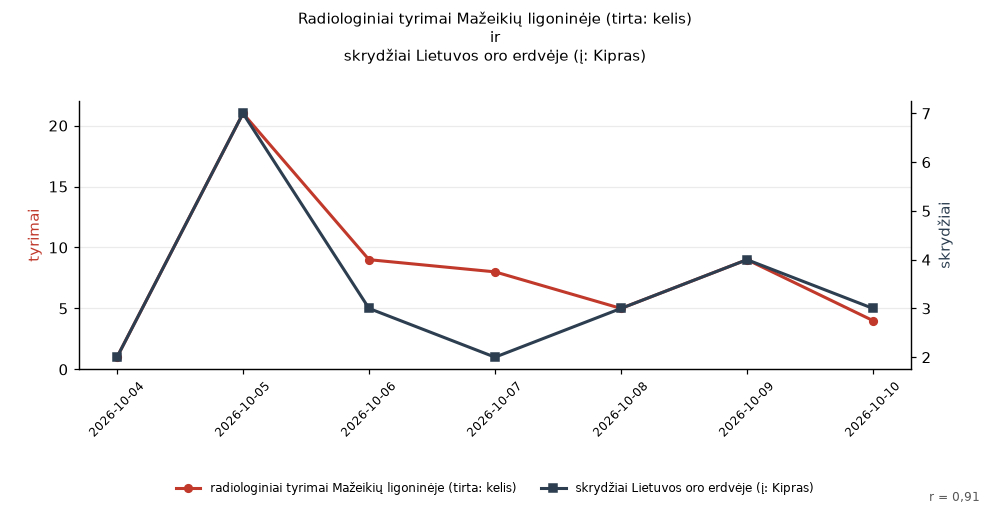
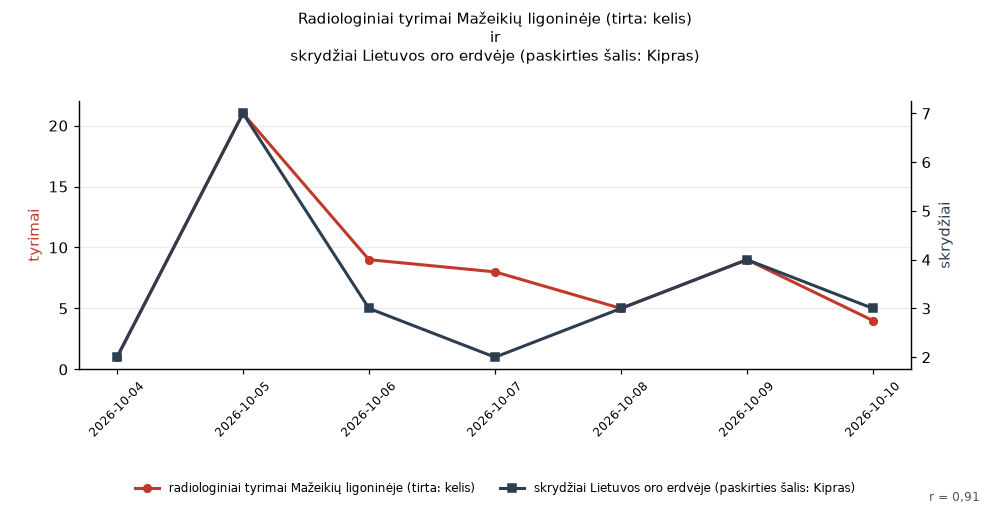
Post: country labels read as destination/departure country

Changed region(s): [[0.1212, 0.9486, 0.8788, 0.9783], [0.303, 0.0889, 0.697, 0.1186]]

diff --git a/post/2026-10-23-9c3c91f4/index.html b/post/2026-10-23-9c3c91f4/index.html
@@ -1,10 +1,10 @@
 <!doctype html>
 <html lang="lt"><head><meta charset="utf-8">
 <meta name="viewport" content="width=device-width, initial-scale=1">
-<title>2026 m. lyg tyčia sutapo: radiologiniai tyrimai Mažeikių ligoninėje (tirta: kelis) ir skrydžiai Lietuvos oro erdvėje (į: Kipras) · Lyg tyčia</title>
+<title>2026 m. lyg tyčia sutapo: radiologiniai tyrimai Mažeikių ligoninėje (tirta: kelis) ir skrydžiai Lietuvos oro erdvėje (paskirties šalis: Kipras) · Lyg tyčia</title>
 <meta property="og:type" content="article">
 <meta property="og:site_name" content="Lyg tyčia">
-<meta property="og:title" content="2026 m. lyg tyčia sutapo: radiologiniai tyrimai Mažeikių ligoninėje (tirta: kelis) ir skrydžiai Lietuvos oro erdvėje (į: Kipras)">
+<meta property="og:title" content="2026 m. lyg tyčia sutapo: radiologiniai tyrimai Mažeikių ligoninėje (tirta: kelis) ir skrydžiai Lietuvos oro erdvėje (paskirties šalis: Kipras)">
 <meta property="og:description" content="Radiologiniai tyrimai Mažeikių ligoninėje (tirta: kelis) ir skrydžiai Lietuvos oro erdvėje (į: Kipras) kyla ir krenta kartu: r = 0,90 per 7 d. (2026-10-04 – 2026-10-10).">
 <meta property="og:url" content="https://1gnas3000.github.io/lygtycia/post/2026-10-23-9c3c91f4/">
 <meta property="og:image" content="https://1gnas3000.github.io/lygtycia/post/2026-10-23-9c3c91f4/chart.png">
@@ -26,18 +26,18 @@
 <article><p class="meta">2026-10-23
  · panašios kreivės · dienos duomenys
  · r = 0,91</p>
-<h2>2026 m. lyg tyčia sutapo: radiologiniai tyrimai Mažeikių ligoninėje (tirta: kelis) ir skrydžiai Lietuvos oro erdvėje (į: Kipras)</h2>
+<h2>2026 m. lyg tyčia sutapo: radiologiniai tyrimai Mažeikių ligoninėje (tirta: kelis) ir skrydžiai Lietuvos oro erdvėje (paskirties šalis: Kipras)</h2>
 
 <p><a href="../../post/2026-10-23-9c3c91f4/"><img src="../../post/2026-10-23-9c3c91f4/chart.png"
  alt="grafikas" loading="lazy"></a></p>
 <p class="sources">Duomenų šaltiniai:
  <a href="https://get.data.gov.lt/datasets/gov/radiologija/RegionineMazeikiuLigonine" rel="noopener">Radiologiniai tyrimai (Mažeikių ligoninė)</a> · <a href="https://get.data.gov.lt/datasets/gov/on/statistika/Skrydis" rel="noopener">Skrydžiai Lietuvos oro erdvėje</a></p>
 
-<p class="text">Radiologiniai tyrimai Mažeikių ligoninėje (tirta: kelis) ir skrydžiai Lietuvos oro erdvėje (į: Kipras) kyla ir krenta kartu: r = 0,90 per 7 d. (2026-10-04 – 2026-10-10).</p><p class="text">Duomenys: „radiologiniai tyrimai Mažeikių ligoninėje (tirta: kelis)“ (tyrimai) ir „skrydžiai Lietuvos oro erdvėje (į: Kipras)“ (skrydžiai).</p><p class="text">Tyler Vigen&#39;o „Spurious Correlations“ dvasia: iš tūkstančių atsitiktinių Lietuvos atvirų duomenų porų šios dvi nupiešė tą pačią kreivę.</p>
+<p class="text">Radiologiniai tyrimai Mažeikių ligoninėje (tirta: kelis) ir skrydžiai Lietuvos oro erdvėje (į: Kipras) kyla ir krenta kartu: r = 0,90 per 7 d. (2026-10-04 – 2026-10-10).</p><p class="text">Duomenys: „radiologiniai tyrimai Mažeikių ligoninėje (tirta: kelis)“ (tyrimai) ir „skrydžiai Lietuvos oro erdvėje (paskirties šalis: Kipras)“ (skrydžiai).</p><p class="text">Tyler Vigen&#39;o „Spurious Correlations“ dvasia: iš tūkstančių atsitiktinių Lietuvos atvirų duomenų porų šios dvi nupiešė tą pačią kreivę.</p>
 <p class="share">Dalintis:
  <a href="https://www.facebook.com/sharer/sharer.php?u=https%3A//1gnas3000.github.io/lygtycia/post/2026-10-23-9c3c91f4/"
  rel="noopener">Facebook</a> ·
- <a href="https://mastodonshare.com/?text=2026%20m.%20lyg%20ty%C4%8Dia%20sutapo%3A%20radiologiniai%20tyrimai%20Ma%C5%BEeiki%C5%B3%20ligonin%C4%97je%20%28tirta%3A%20kelis%29%20ir%20skryd%C5%BEiai%20Lietuvos%20oro%20erdv%C4%97je%20%28%C4%AF%3A%20Kipras%29&url=https%3A//1gnas3000.github.io/lygtycia/post/2026-10-23-9c3c91f4/"
+ <a href="https://mastodonshare.com/?text=2026%20m.%20lyg%20ty%C4%8Dia%20sutapo%3A%20radiologiniai%20tyrimai%20Ma%C5%BEeiki%C5%B3%20ligonin%C4%97je%20%28tirta%3A%20kelis%29%20ir%20skryd%C5%BEiai%20Lietuvos%20oro%20erdv%C4%97je%20%28paskirties%20%C5%A1alis%3A%20Kipras%29&url=https%3A//1gnas3000.github.io/lygtycia/post/2026-10-23-9c3c91f4/"
  rel="noopener">Mastodon</a> ·
  <a href="https://www.linkedin.com/sharing/share-offsite/?url=https%3A//1gnas3000.github.io/lygtycia/post/2026-10-23-9c3c91f4/"
  rel="noopener">LinkedIn</a></p>

diff --git a/index.html b/index.html
@@ -18,7 +18,7 @@
 <p class="meta">Kasdien – dvi Lietuvos atvirų duomenų kreivės, kurios lyg tyčia sutapo.</p>
 </header>
 <article><p class="meta">2026-10-23</p>
-<h2><a href="./post/2026-10-23-9c3c91f4/">2026 m. lyg tyčia sutapo: radiologiniai tyrimai Mažeikių ligoninėje (tirta: kelis) ir skrydžiai Lietuvos oro erdvėje (į: Kipras)</a></h2>
+<h2><a href="./post/2026-10-23-9c3c91f4/">2026 m. lyg tyčia sutapo: radiologiniai tyrimai Mažeikių ligoninėje (tirta: kelis) ir skrydžiai Lietuvos oro erdvėje (paskirties šalis: Kipras)</a></h2>
 
 <p><a href="./post/2026-10-23-9c3c91f4/"><img src="./post/2026-10-23-9c3c91f4/chart.png"
  alt="grafikas" loading="lazy"></a></p>
@@ -29,7 +29,7 @@
 <p class="share">Dalintis:
  <a href="https://www.facebook.com/sharer/sharer.php?u=https%3A//1gnas3000.github.io/lygtycia/post/2026-10-23-9c3c91f4/"
  rel="noopener">Facebook</a> ·
- <a href="https://mastodonshare.com/?text=2026%20m.%20lyg%20ty%C4%8Dia%20sutapo%3A%20radiologiniai%20tyrimai%20Ma%C5%BEeiki%C5%B3%20ligonin%C4%97je%20%28tirta%3A%20kelis%29%20ir%20skryd%C5%BEiai%20Lietuvos%20oro%20erdv%C4%97je%20%28%C4%AF%3A%20Kipras%29&url=https%3A//1gnas3000.github.io/lygtycia/post/2026-10-23-9c3c91f4/"
+ <a href="https://mastodonshare.com/?text=2026%20m.%20lyg%20ty%C4%8Dia%20sutapo%3A%20radiologiniai%20tyrimai%20Ma%C5%BEeiki%C5%B3%20ligonin%C4%97je%20%28tirta%3A%20kelis%29%20ir%20skryd%C5%BEiai%20Lietuvos%20oro%20erdv%C4%97je%20%28paskirties%20%C5%A1alis%3A%20Kipras%29&url=https%3A//1gnas3000.github.io/lygtycia/post/2026-10-23-9c3c91f4/"
  rel="noopener">Mastodon</a> ·
  <a href="https://www.linkedin.com/sharing/share-offsite/?url=https%3A//1gnas3000.github.io/lygtycia/post/2026-10-23-9c3c91f4/"
  rel="noopener">LinkedIn</a></p></article>
